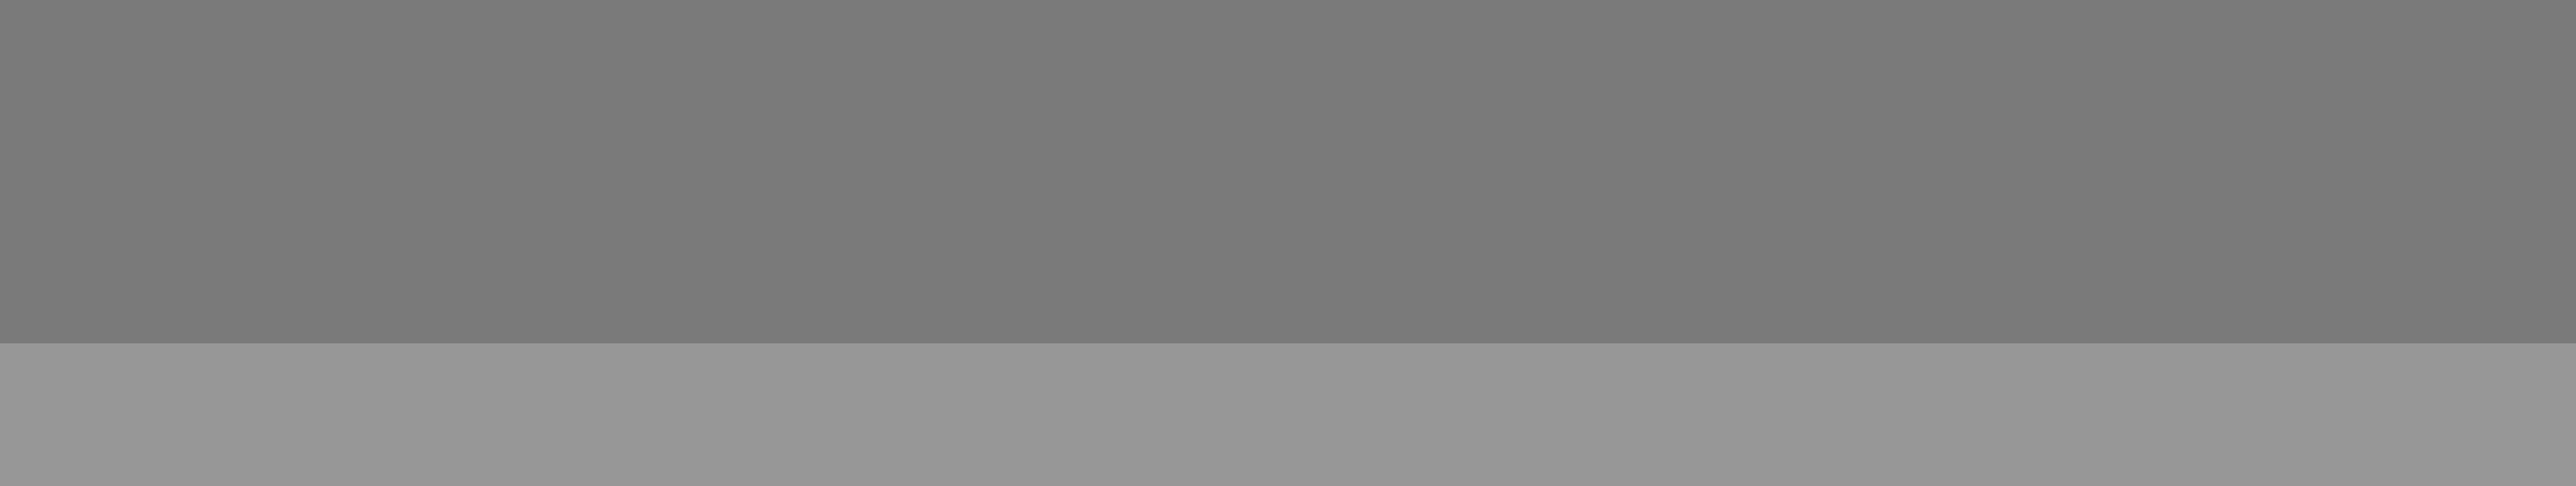
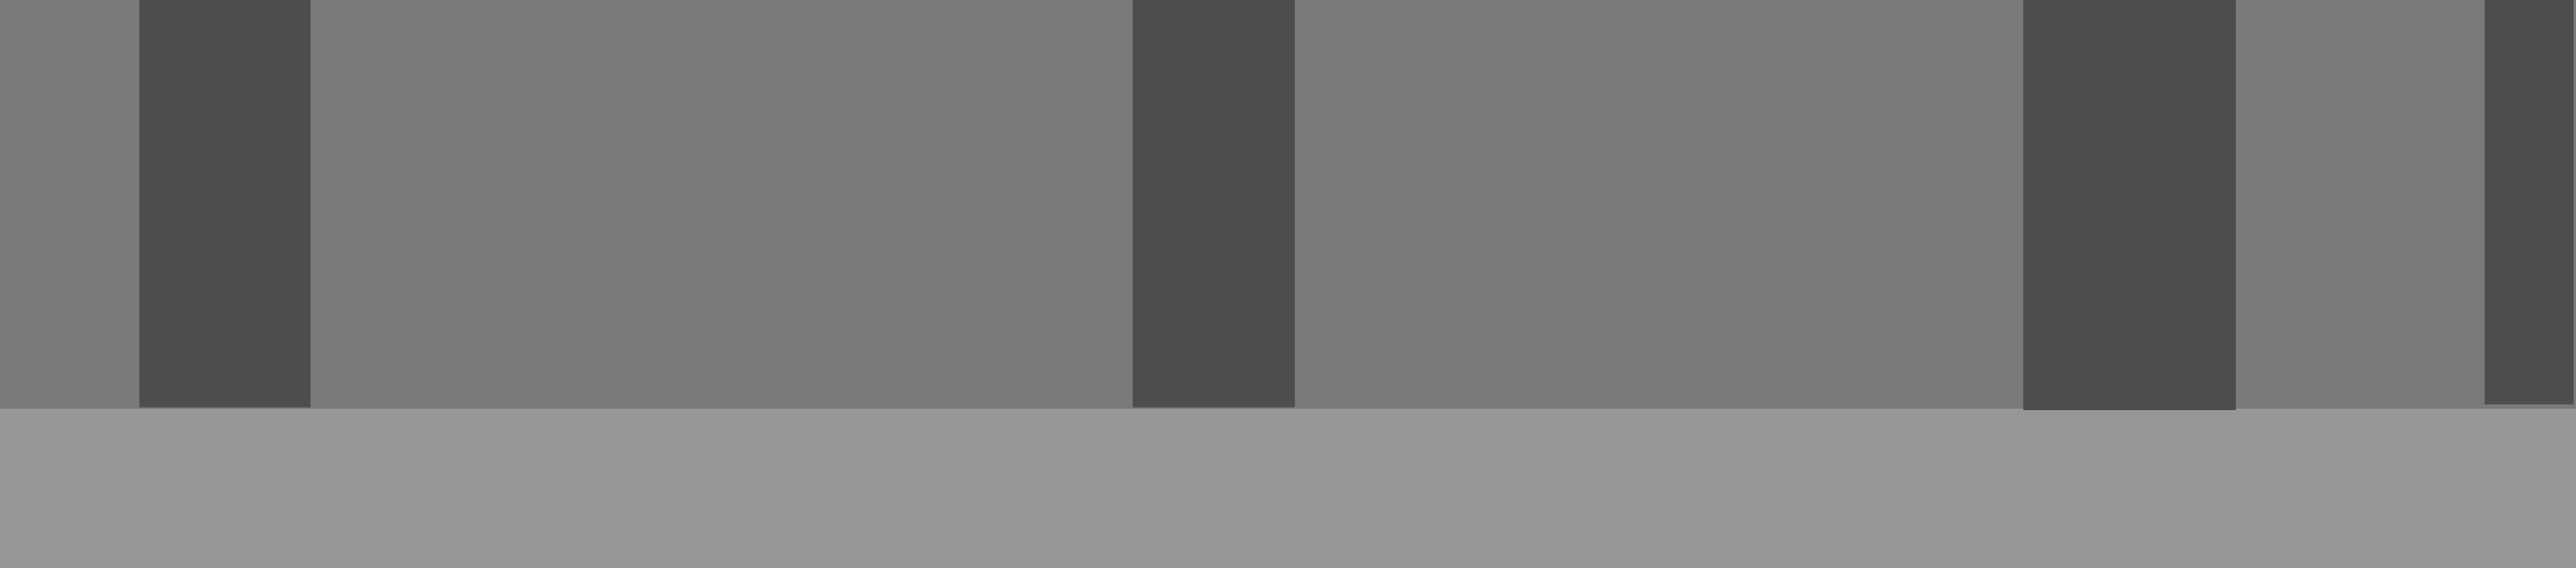
addedBackground and trying to fix the camera

Changed region(s): [[0.0, 0.0, 1.0, 0.7333]]

diff --git a/Game1.cs b/Game1.cs
@@ -1,13 +1,12 @@
 using System.Diagnostics;
 using Hallowed.Core;
+using Hallowed.Core.Display;
 using Hallowed.Management;
-using Hallowed.Objects;
 using Hallowed.Objects.Haley;
 using Hallowed.Scenes;
 using Microsoft.Xna.Framework;
 using Microsoft.Xna.Framework.Graphics;
 using Microsoft.Xna.Framework.Input;
-
 
 namespace Hallowed;
 
@@ -15,9 +14,9 @@ public class Game1 : SceneBase
 {
   private SpriteBatch _spriteBatch;
   private Sprite _witch;
-  private AnimatedSprite _king;
   private ObjectHaley _objectHaley;
   private Sprite _background;
+  private Camera _camera;
 
   public Game1()
   {
@@ -29,6 +28,7 @@ public class Game1 : SceneBase
   {
     Database.Init();
 
+    _camera = new Camera(Graphics.Width, Graphics.Height);
     _background = new Sprite();
     _background.Anchor = new Vector2(0.5f, 0.5f);
     _background.X = Graphics.Width * 0.5f;
@@ -36,7 +36,7 @@ public class Game1 : SceneBase
 
     _objectHaley = new ObjectHaley(Database.HaleyDataModel, InputMap);
     _objectHaley.X = Graphics.Width * 0.5f;
-    _objectHaley.Y = Graphics.Height * 0.5f;
+    _objectHaley.Y = (Graphics.Height * 0.5f);
     _objectHaley.Sprite.SetScale(4f, 4f);
     // TODO: Add your initialization logic here
     _witch = new Sprite()
@@ -77,6 +77,7 @@ public class Game1 : SceneBase
   {
     _objectHaley.Update(gameTime);
     _background.Update(gameTime);
+    _camera.Follow(_objectHaley);
     if (GamePad.GetState(PlayerIndex.One).Buttons.Back == ButtonState.Pressed ||
         Keyboard.GetState().IsKeyDown(Keys.Escape))
       Exit();
@@ -88,8 +89,8 @@ public class Game1 : SceneBase
 
     if (InputMap.IsTriggered(Keys.Space))
     {
-      Debug.WriteLine("Real width: " + _background.RealWidth + "," + " real height: " + _background.RealHeight);
-      Debug.WriteLine("Width: " + _background.Width + "," + " Height: " + _background.Height);
+      Debug.WriteLine("Haley_X: " + _objectHaley.X + "," + " Haley_Y " + _objectHaley.Y);
+      Debug.WriteLine("Width: " + Graphics.Width / 2 + "," + " Height: " + Graphics.Height / 2);
     }
 
     base.Update(gameTime);
@@ -98,18 +99,10 @@ public class Game1 : SceneBase
   protected override void Draw(GameTime gameTime)
   {
     GraphicsDevice.Clear(Color.CornflowerBlue);
-    _spriteBatch.Begin(samplerState: SamplerState.PointClamp);
+    _spriteBatch.Begin(samplerState: SamplerState.PointClamp, transformMatrix: _camera.Transform);
     _background.Draw(_spriteBatch, gameTime);
-    //_witch.Draw(_spriteBatch, gameTime);
-    //  _king.Draw(_spriteBatch, gameTime);
     _objectHaley.Draw(_spriteBatch, gameTime);
     _spriteBatch.End();
     base.Draw(gameTime);
-  }
-
-
-  protected override void Dispose(bool disposing)
-  {
-    base.Dispose(disposing);
   }
 }

diff --git a/Sources/Core/Display/Container.cs b/Sources/Core/Display/Container.cs
@@ -1,0 +1,83 @@
+using System.Collections.Generic;
+using Microsoft.Xna.Framework;
+using Microsoft.Xna.Framework.Graphics;
+
+namespace Hallowed.Core.Display;
+
+/// <summary>
+///  The class that allows to group and transform multiple Renderable Object at the same time.
+/// <example>
+/// <code>
+/// var container = new Container();
+/// container.AddChild(sprite);
+/// </code>
+/// </example>
+/// </summary>
+/// TODO : add auto Resizing based on the children boundaries
+///
+public class Container : IRenderableChild
+{
+  private List<IRenderableChild> _children;
+
+  private float _scale;
+  private Vector2 _position;
+  public bool Enabled { get; set; } = true;
+
+  public Container()
+  {
+    _children = new List<IRenderableChild>();
+  }
+
+
+  public void AddChild(IRenderableChild child)
+  {
+    _children.Add(child);
+  }
+
+  public void AddChild(IRenderableChild[] children)
+  {
+    for (var i = 0; i < children.Length; i++)
+    {
+      _children.Add(children[i]);
+    }
+  }
+
+  public void AddChild(List<IRenderableChild> children)
+  {
+    for (var i = 0; i < children.Count; i++)
+    {
+      _children.Add(children[i]);
+    }
+  }
+
+  public void Update(GameTime delta)
+  {
+    foreach (var child in _children)
+    {
+      child.Update(delta);
+    }
+  }
+
+  public void Draw(SpriteBatch batch, GameTime delta)
+  {
+    foreach (var child in _children)
+    {
+      if (!child.Enabled) continue;
+      child.Draw(batch, delta);
+    }
+  }
+
+  public void Dispose()
+  {
+    foreach (var child in _children)
+    {
+      child.Dispose();
+    }
+  }
+
+  public int Width { get; set; }
+
+  private void RequestTransformRefresh()
+  {
+  }
+}

diff --git a/Sources/Core/Display/Camera.cs b/Sources/Core/Display/Camera.cs
@@ -1,0 +1,34 @@
+using Hallowed.Core.Objects;
+using Hallowed.Objects;
+using Microsoft.Xna.Framework;
+
+namespace Hallowed.Core.Display;
+
+/// <summary>
+/// The game object class that handle the camera in the world.
+/// </summary>
+public class Camera
+{
+  public Matrix Transform { get; private set; }
+
+  private Area2D _screenSize;
+
+  public Camera(int screenWidth, int screenHeight)
+  {
+    _screenSize = new Area2D(screenWidth, screenHeight);
+  }
+
+  public void Follow(CharacterBase target)
+  {
+    var offset = Matrix.CreateTranslation(
+      (float)_screenSize.Width / 2,
+      (float)_screenSize.Height / 2,
+      0
+    );
+    var position = Matrix.CreateTranslation(
+      -target.Sprite.X - ((float)target.Sprite.Width / 2),
+      -target.Sprite.Y + ((float)target.Sprite.Height / 2),
+      0);
+    Transform = position * offset;
+  }
+}

diff --git a/Sources/Scenes/SceneBase.cs b/Sources/Scenes/SceneBase.cs
@@ -2,7 +2,6 @@
 using System.Linq;
 using Hallowed.Core;
 using Hallowed.Core.Display;
-using Hallowed.Objects;
 using Hallowed.Objects.Haley;
 using Microsoft.Xna.Framework;
 using Microsoft.Xna.Framework.Graphics;
